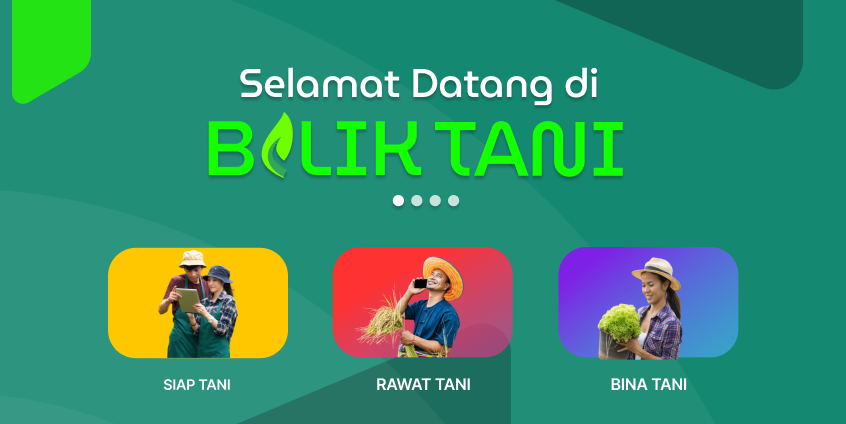
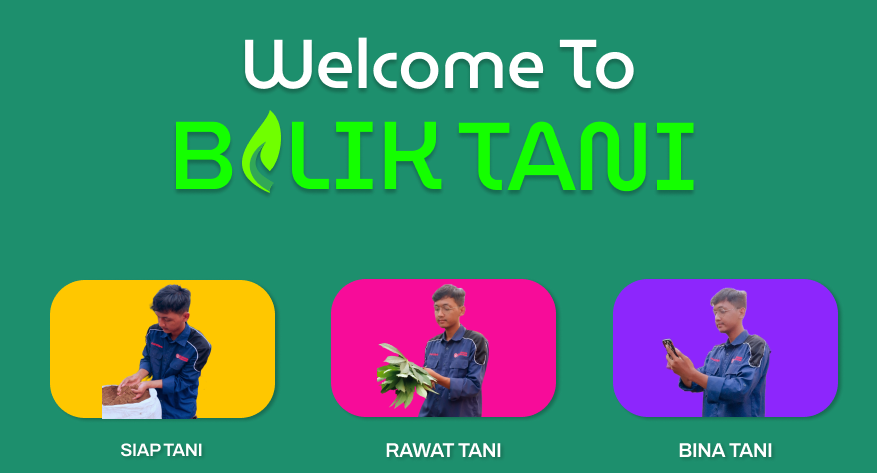
change image home

diff --git a/src/app/(main-feature)/rawat-tani/kebutuhan-air-tanaman/page.js b/src/app/(main-feature)/rawat-tani/kebutuhan-air-tanaman/page.js
@@ -72,13 +72,18 @@ export default function KebutuhanAirTanamanPage() {
     <div>
       <div className="container">
         <div className="container mx-auto my-8 p-4 border-2 rounded-lg border-gray-150">
-          <h1 className="text-2xl font-bold text-[#0B6653]">Kebutuhan Irigasi</h1>
+          <h1 className="text-2xl font-bold text-[#0B6653]">
+            Kebutuhan Air Tanaman
+          </h1>
           <p>
-            Kebutuhan Air Lahan Tanaman merupakan sebuah fitur yang digunakan untuk membantu merencanakan dan
-            mengelola sistem irigasi untuk komiditas yang ditanam.
+            Kebutuhan Air Lahan Tanaman merupakan sebuah fitur yang digunakan
+            untuk membantu merencanakan dan mengelola sistem irigasi untuk
+            komiditas yang ditanam.
           </p>
         </div>
-        <p className="mb-5">Silahkan isi data berikut untuk menghitung Kebutuhan Irigasi!</p>
+        <p className="mb-5">
+          Silahkan isi data berikut untuk menghitung Kebutuhan Irigasi!
+        </p>
 
         <div className="flex flex-row gap-5">
           <div className="basis-1/2">
@@ -102,7 +107,10 @@ export default function KebutuhanAirTanamanPage() {
               </div>
 
               <div className="grid grid-cols-1">
-                <label htmlFor="plantPopulation" className="text-left mb-2 font-medium">
+                <label
+                  htmlFor="plantPopulation"
+                  className="text-left mb-2 font-medium"
+                >
                   Jumlah Populasi
                 </label>
                 <input
@@ -126,7 +134,9 @@ export default function KebutuhanAirTanamanPage() {
           </div>
 
           <div className="basis-1/2">
-            <p className="text-2xl font-bold text-emerald-800">Hasil Perhitungan</p>
+            <p className="text-2xl font-bold text-emerald-800">
+              Hasil Perhitungan
+            </p>
             <label className="text-left font-medium">Tahap Tanaman</label>
             <input
               type="text"
@@ -135,7 +145,9 @@ export default function KebutuhanAirTanamanPage() {
               readOnly
             />
 
-            <label className="text-left font-medium">Dosis Kadar Air Irigasi</label>
+            <label className="text-left font-medium">
+              Dosis Kadar Air Irigasi
+            </label>
             <input
               type="text"
               value={waterDose}

diff --git a/src/lib/data-informasi/home.js b/src/lib/data-informasi/home.js
@@ -2,6 +2,9 @@ import FotoBilikTani from "@/assets/home/foto-bilik-tani.png";
 import FotoSiapTani from "@/assets/home/foto-siap-tani.png";
 import FotoRawatTani from "@/assets/home/foto-rawat-tani.png";
 import FotoBinaTani from "@/assets/home/foto-bina-tani.png";
+import FotoLahanMekarTani from "@/assets/home/foto-lahan-mekar-tani.png";
+import FotoLahanTaniJaya from "@/assets/home/foto-lahan-tani-jaya.png";
+import FotoLahanTaniRaharja from "@/assets/home/foto-lahan-tani-raharja.png";
 
 const fiturBilikTani = [
   FotoBilikTani,
@@ -10,4 +13,6 @@ const fiturBilikTani = [
   FotoBinaTani,
 ];
 
-export { fiturBilikTani };
+const lahan = [FotoLahanMekarTani, FotoLahanTaniRaharja, FotoLahanTaniJaya];
+
+export { fiturBilikTani, lahan };

diff --git a/src/app/(main-feature)/page.js b/src/app/(main-feature)/page.js
@@ -7,7 +7,7 @@ import {
   CarouselNext,
   CarouselPrevious,
 } from "@/components/ui/carousel";
-import { fiturBilikTani } from "@/lib/data-informasi/home";
+import { fiturBilikTani, lahan } from "@/lib/data-informasi/home";
 import Image from "next/image";
 
 export default function HomePage() {
@@ -51,7 +51,7 @@ export default function HomePage() {
           }}
         >
           <CarouselContent className="h-[450px]">
-            {fiturBilikTani.map((pic, index) => (
+            {lahan.map((pic, index) => (
               <CarouselItem
                 key={index}
                 className="flex justify-center items-center"

diff --git a/src/app/(auth)/profile/page.js b/src/app/(auth)/profile/page.js
@@ -314,10 +314,9 @@ export default function ProfilePage() {
                   Isikan kata sandi lama anda atau ubah kata sandi.
                 </p>
               </div>
-
               <button
                 type="submit"
-                className="mt-5 bg-emerald-800 text-white rounded-xl w-full h-1/2 hover:bg-emerald-700"
+                className="mt-5 bg-emerald-800 text-white rounded-xl w-full h-1/2 py-2 hover:bg-emerald-700"
               >
                 {submissionLoading ? "Loading..." : "Simpan"}
               </button>

diff --git a/src/app/(main-feature)/bina-tani/page.js b/src/app/(main-feature)/bina-tani/page.js
@@ -10,8 +10,8 @@ import IconWhatsapp from "@/assets/bina-tani/whatsapp.png";
 
 export default function BinaTaniPage() {
   return (
-    <div className="container overflow-y-auto max-h-screen">
-      <div className="container">
+    <div className=" max-h-screen overflow-y-auto">
+      <div className="container ">
         <>
           <div className="container mx-auto mt-8 p-4 border-2 rounded-lg border-gray-150">
             <h1 className="text-2xl font-bold text-[#0B6653]">Klinik Tani</h1>

diff --git a/src/app/(main-feature)/@modal/(.)catatan/page.js b/src/app/(main-feature)/@modal/(.)catatan/page.js
@@ -31,7 +31,8 @@ export default function CatatanModal() {
           Authorization: "Bearer " + token,
         },
       });
-      setContent(res.data.data);
+      // if (res.data.data === null)
+      setContent(res.data.data.content);
     } catch (error) {
       console.error("Error fetching catatan:", error);
     } finally {

diff --git a/src/components/form/form-kalkulator-pupuk.js b/src/components/form/form-kalkulator-pupuk.js
@@ -135,7 +135,7 @@ export default function FormKalkulatorPupuk() {
                 htmlFor="panjang-rerata"
                 className="block text-left mb-2 font-medium"
               >
-                Panjang
+                Panjang (m)
               </label>
               <input
                 type="number"

diff --git a/src/components/sidebar/user-info.js b/src/components/sidebar/user-info.js
@@ -29,6 +29,7 @@ export default function UserInfo({}) {
   function handleLogout() {
     const cookies = new Cookies();
     cookies.remove("token");
+    cookies.remove("name");
     toast({
       description: "Berhasil logout",
       className: "rounded-lg border-2 border-emerald-700 p-4",
